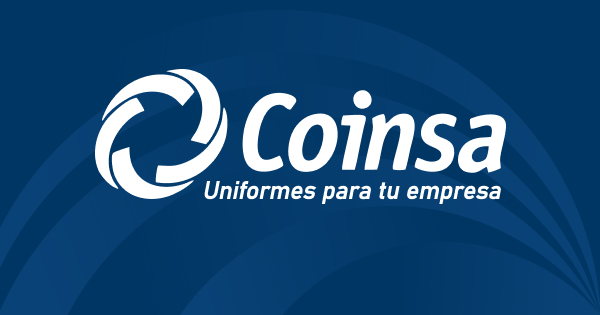
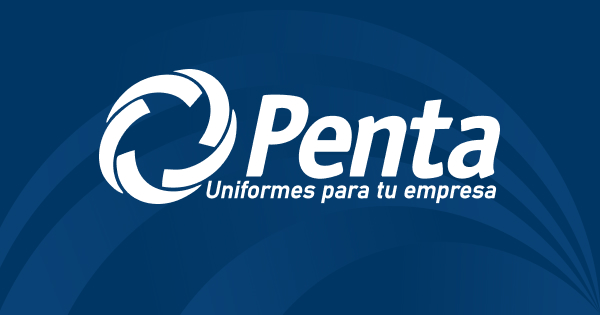
penta brand

Changed region(s): [[0.15, 0.2, 0.87, 0.6571]]

diff --git a/src/components/Navbar.tsx b/src/components/Navbar.tsx
@@ -8,7 +8,10 @@ export default function Navbar() {
       <div className="hidden md:flex w-full bg-[#4a4b4f] text-white text-sm font-acumin-regular ">
         <div className="container mx-auto flex w-full">
           <div className="flex-1 flex items-center justify-center py-2 border-r border-white/30">
-            <a href="mailto:contacto@coinsauniformes.com" className="underline hover:text-[#4cb6ef] transition">contacto@coinsauniformes.com</a>
+            <a href="mailto:contacto@pentamx.com" className="underline hover:text-[#4cb6ef] transition">contacto@pentamx.com</a>
+          </div>
+          <div className="flex-1 flex items-center justify-center py-2 border-r border-white/30">
+            Monterrey: <a href="tel:+528183407031" className=" ml-1 underline hover:text-[#4cb6ef] transition">(81) 8340 7031</a>
           </div>
           <div className="flex-1 flex items-center justify-center py-2 border-r border-white/30">
             Chihuahua: <a href="tel:+526144234275" className=" ml-1 underline hover:text-[#4cb6ef] transition">(614) 423-4275</a>
@@ -16,17 +19,15 @@ export default function Navbar() {
           <div className="flex-1 flex items-center justify-center py-2">
             Cd. Juárez: <a href="tel:+526563960879" className="ml-1 underline hover:text-[#4cb6ef] transition">(656) 396-0879</a>
           </div>
-          <div className="flex-1 flex items-center justify-center py-2 border-r border-white/30">
-            Monterrey: <a href="tel:+528183407031" className=" ml-1 underline hover:text-[#4cb6ef] transition">(81) 8340 7031</a>
-          </div>
+          
         </div>
       </div>
       <nav className="w-full bg-white shadow-sm sticky top-0 z-50">
         <div className="container mx-auto px-4 py-3 flex flex-inline items-center justify-between ">
           {/* Logo */}
           <Link href="/" className="flex items-center gap-2">
-            <img src="/images/coinsa-logo.svg" alt="Coinsa Logo" className="h-12 w-auto md:hidden lg:block" />
-            <img src="/images/coinsa-logo-md.svg" alt="Coinsa Logo" className="h-12 w-auto hidden md:block lg:hidden" />
+            <img src="/images/penta-logo.svg" alt="Penta Logo" className="h-12 w-auto md:hidden lg:block" />
+            <img src="/images/penta-logo-md.svg" alt="Penta Logo" className="h-12 w-auto hidden md:block lg:hidden" />
           </Link>
           {/* Links */}
           <div className="flex gap-8 items-center justify-end font-acumin-semibold tracking-tight">
@@ -36,7 +37,7 @@ export default function Navbar() {
 
 
             <Button 
-              href="https://wa.me/526144234275?text=Hola,%20me%20gustaría%20cotizar%20uniformes" 
+              href="https://wa.me/528120170564?text=Hola,%20me%20gustaría%20cotizar%20uniformes" 
               variant="primary"
               icon={<img src="/images/whatsapp-icon.svg" alt="WhatsApp" className="h-5 w-5" />}
               iconPosition="left"

diff --git a/src/components/Footer.tsx b/src/components/Footer.tsx
@@ -7,7 +7,7 @@ export default function Footer() {
         <div className="flex flex-col sm:flex-row md:justify-between md:items-start gap-4 md:gap-0 pb-8 border-b border-white/20">
           {/* Logo y slogan */}
           <div className="flex flex-col items-center md:items-start md:w-1/ mb-8 md:mb-0 p-4">
-            <Image src="/images/coinsa-blanco.svg" alt="Coinsa Logo" width={180} height={180} className="mb-2" />
+            <Image src="/images/penta-blanco.svg" alt="Penta Logo" width={180} height={180} className="mb-2" />
           </div>
           {/* Contacto */}
           {/* <div className="flex flex-col items-center md:items-start md:w-1/4 mb-8 md:mb-0">
@@ -17,9 +17,19 @@ export default function Footer() {
             </div>
             <div className="flex items-center gap-2">
               
-              <span className="font-acumin-regular text-base break-all">contacto@coinsauniformes.com</span>
+              <span className="font-acumin-regular text-base break-all">contacto@pentauniformes.com</span>
             </div>
           </div> */}
+
+          {/* Sucursal Monterrey */}
+          <div className="flex flex-col items-center md:items-start md:w-1/4 mb-8 md:mb-0">
+            <h5 className="text-2xl font-acumin-condensed-bold uppercase mb-2">SUCURSAL MONTERREY</h5>
+            <div className="mb-2">
+              <p className="font-acumin-regular text-base">Av. Simón Bolívar 1438</p>
+              <p className="font-acumin-regular text-base">Mitras Centro</p>
+              <p className="font-acumin-regular text-base">Monterrey, N.L. CP 64460</p>
+            </div>
+            
           {/* Sucursal Chihuahua */}
           <div className="flex flex-col items-center md:items-start md:w-1/4 mb-8 md:mb-0">
             <h5 className="text-2xl font-acumin-condensed-bold uppercase mb-2">SUCURSAL CHIHUAHUA</h5>
@@ -60,14 +70,7 @@ export default function Footer() {
               <span className="font-acumin-regular text-base">Tel. (656) 396-0879 y 610-7278</span>
             </div>
           </div>
-          {/* Sucursal Monterrey */}
-          <div className="flex flex-col items-center md:items-start md:w-1/4 mb-8 md:mb-0">
-            <h5 className="text-2xl font-acumin-condensed-bold uppercase mb-2">SUCURSAL MONTERREY</h5>
-            <div className="mb-2">
-              <p className="font-acumin-regular text-base">Av. Simón Bolívar 1438</p>
-              <p className="font-acumin-regular text-base">Mitras Centro</p>
-              <p className="font-acumin-regular text-base">Monterrey, N.L. CP 64460</p>
-            </div>
+          
             <a 
               href="https://maps.app.goo.gl/BWJU3iPdrKUmBY2r9" 
               target="_blank" 

diff --git a/src/app/layout.tsx b/src/app/layout.tsx
@@ -29,7 +29,7 @@ export const metadata: Metadata = {
   openGraph: {
     type: 'website',
     locale: 'es_MX',
-    url: 'https://coinsauniformes.com/',
+    url: 'https://pentamx.com/',
     siteName: 'PENTA Uniformes',
     title: 'PENTA Uniformes - Catálogos y Cotizaciones',
     description: 'Catálogos de uniformes empresariales de las mejores marcas. Cotiza uniformes para tu empresa con más de 20 años de experiencia en el mercado.',
@@ -47,8 +47,8 @@ export const metadata: Metadata = {
     title: 'PENTA Uniformes - Catálogos y Cotizaciones',
     description: 'Catálogos de uniformes empresariales de las mejores marcas. Cotiza uniformes para tu empresa con más de 20 años de experiencia en el mercado.',
     images: ['/og-image.jpg'],
-    creator: '@coinsa',
-    site: '@coinsa',
+    creator: '@penta',
+    site: '@penta',
   },
   icons: {
     icon: [

diff --git a/src/app/privacidad/page.tsx b/src/app/privacidad/page.tsx
@@ -109,7 +109,7 @@ export default function PrivacyPolicy() {
               Para ejercer sus derechos ARCO o para cualquier consulta sobre este aviso de privacidad, puede contactarnos a través de:
             </p>
             <p className="text-gray-600">
-              Correo electrónico: contacto@coinsa.com.mx<br />
+              Correo electrónico: contacto@pentamx.com<br />
               Teléfono: (614) 423-4275<br />
               WhatsApp: (614) 423-4275<br />
               Dirección: Av. Mirador 7514-A Col. Campestre Washington, Chihuahua, Chih. C.P. 31238

diff --git a/src/app/terminos/page.tsx b/src/app/terminos/page.tsx
@@ -92,7 +92,7 @@ export default function TermsAndConditions() {
               Para cualquier consulta sobre estos términos y condiciones, puede contactarnos a través de:
             </p>
             <p className="text-gray-600">
-              Correo electrónico: contacto@coinsa.com.mx<br />
+              Correo electrónico: contacto@pentamx.com<br />
               Teléfono: (614) 423-4275<br />
               WhatsApp: (614) 423-4275
             </p>
